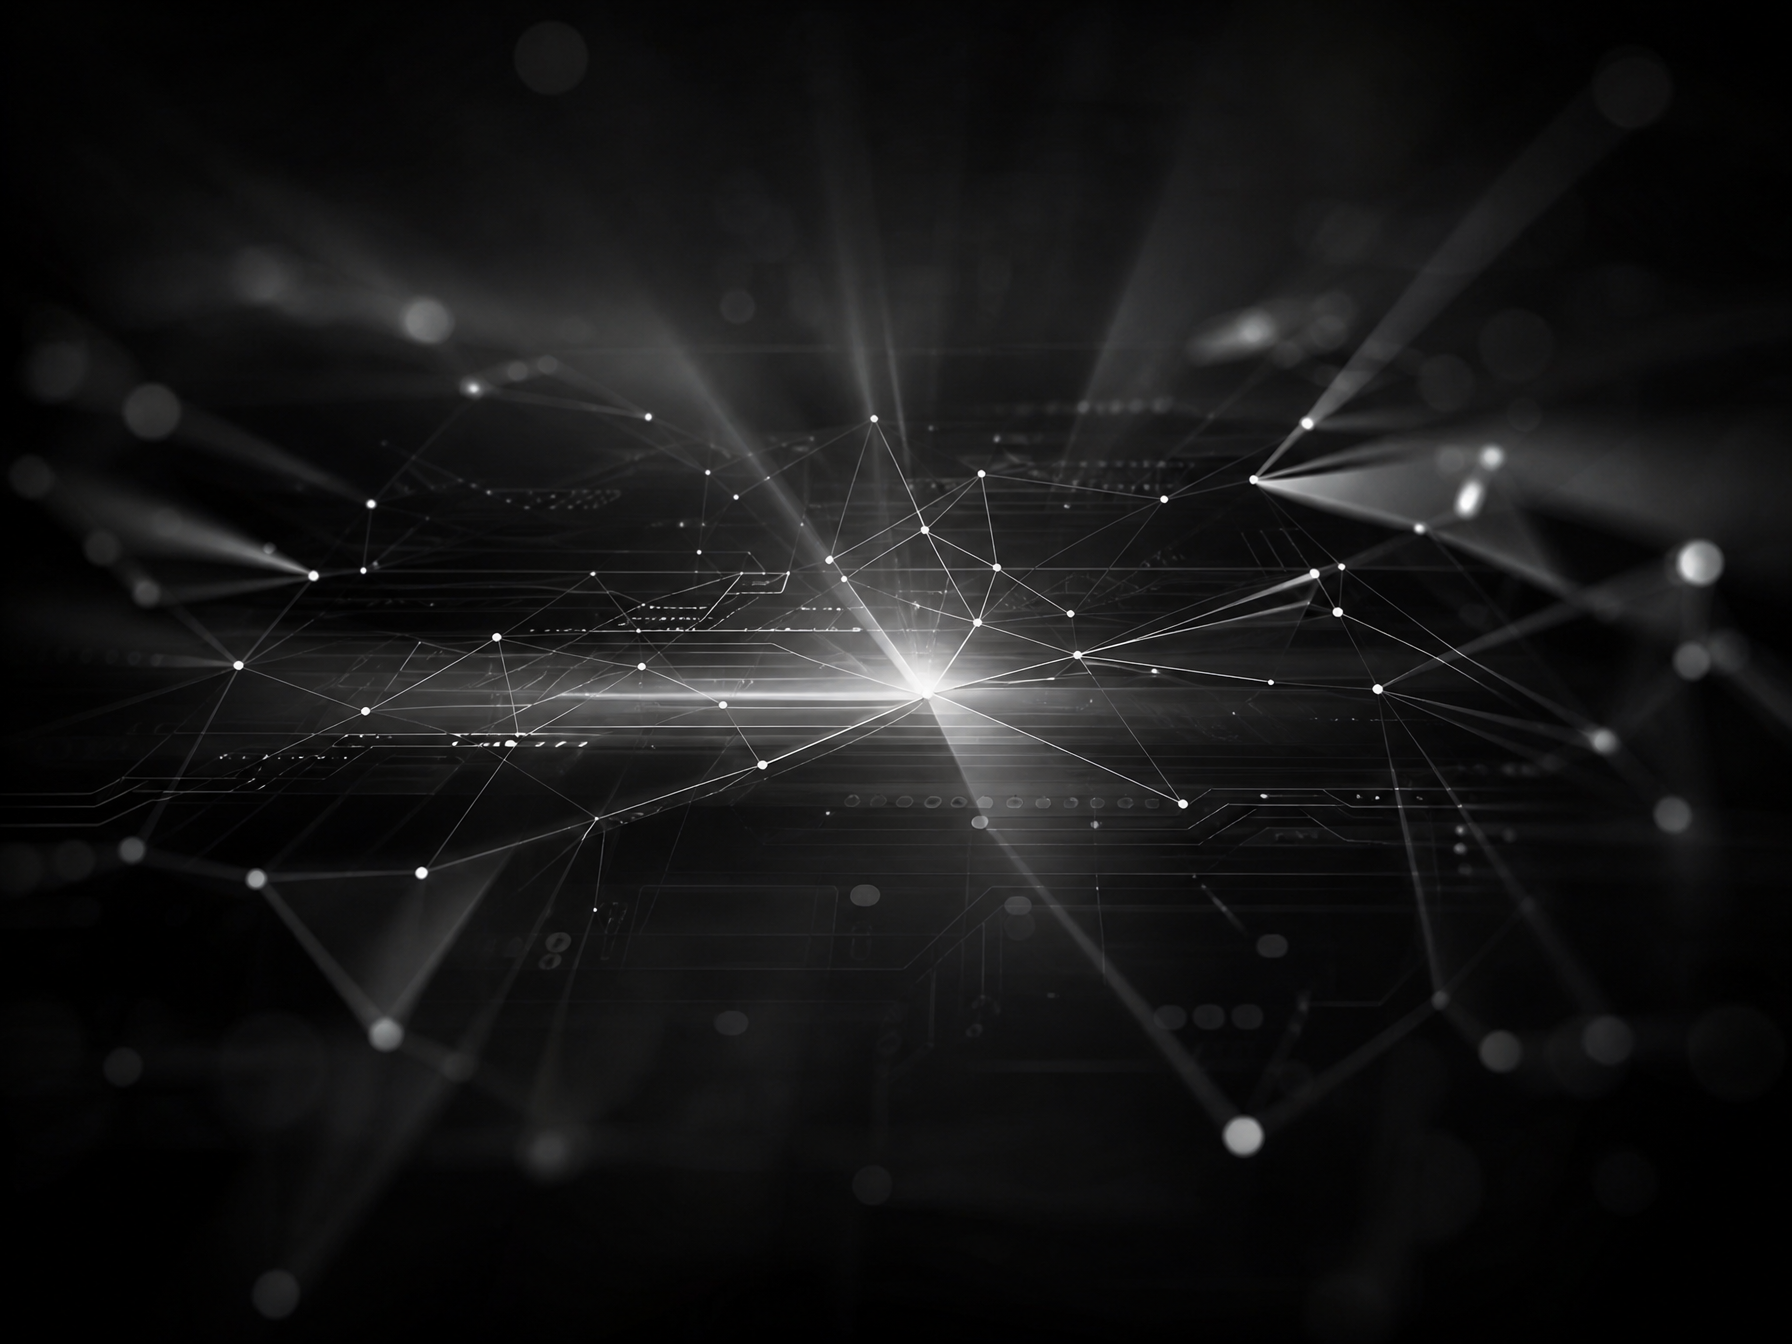
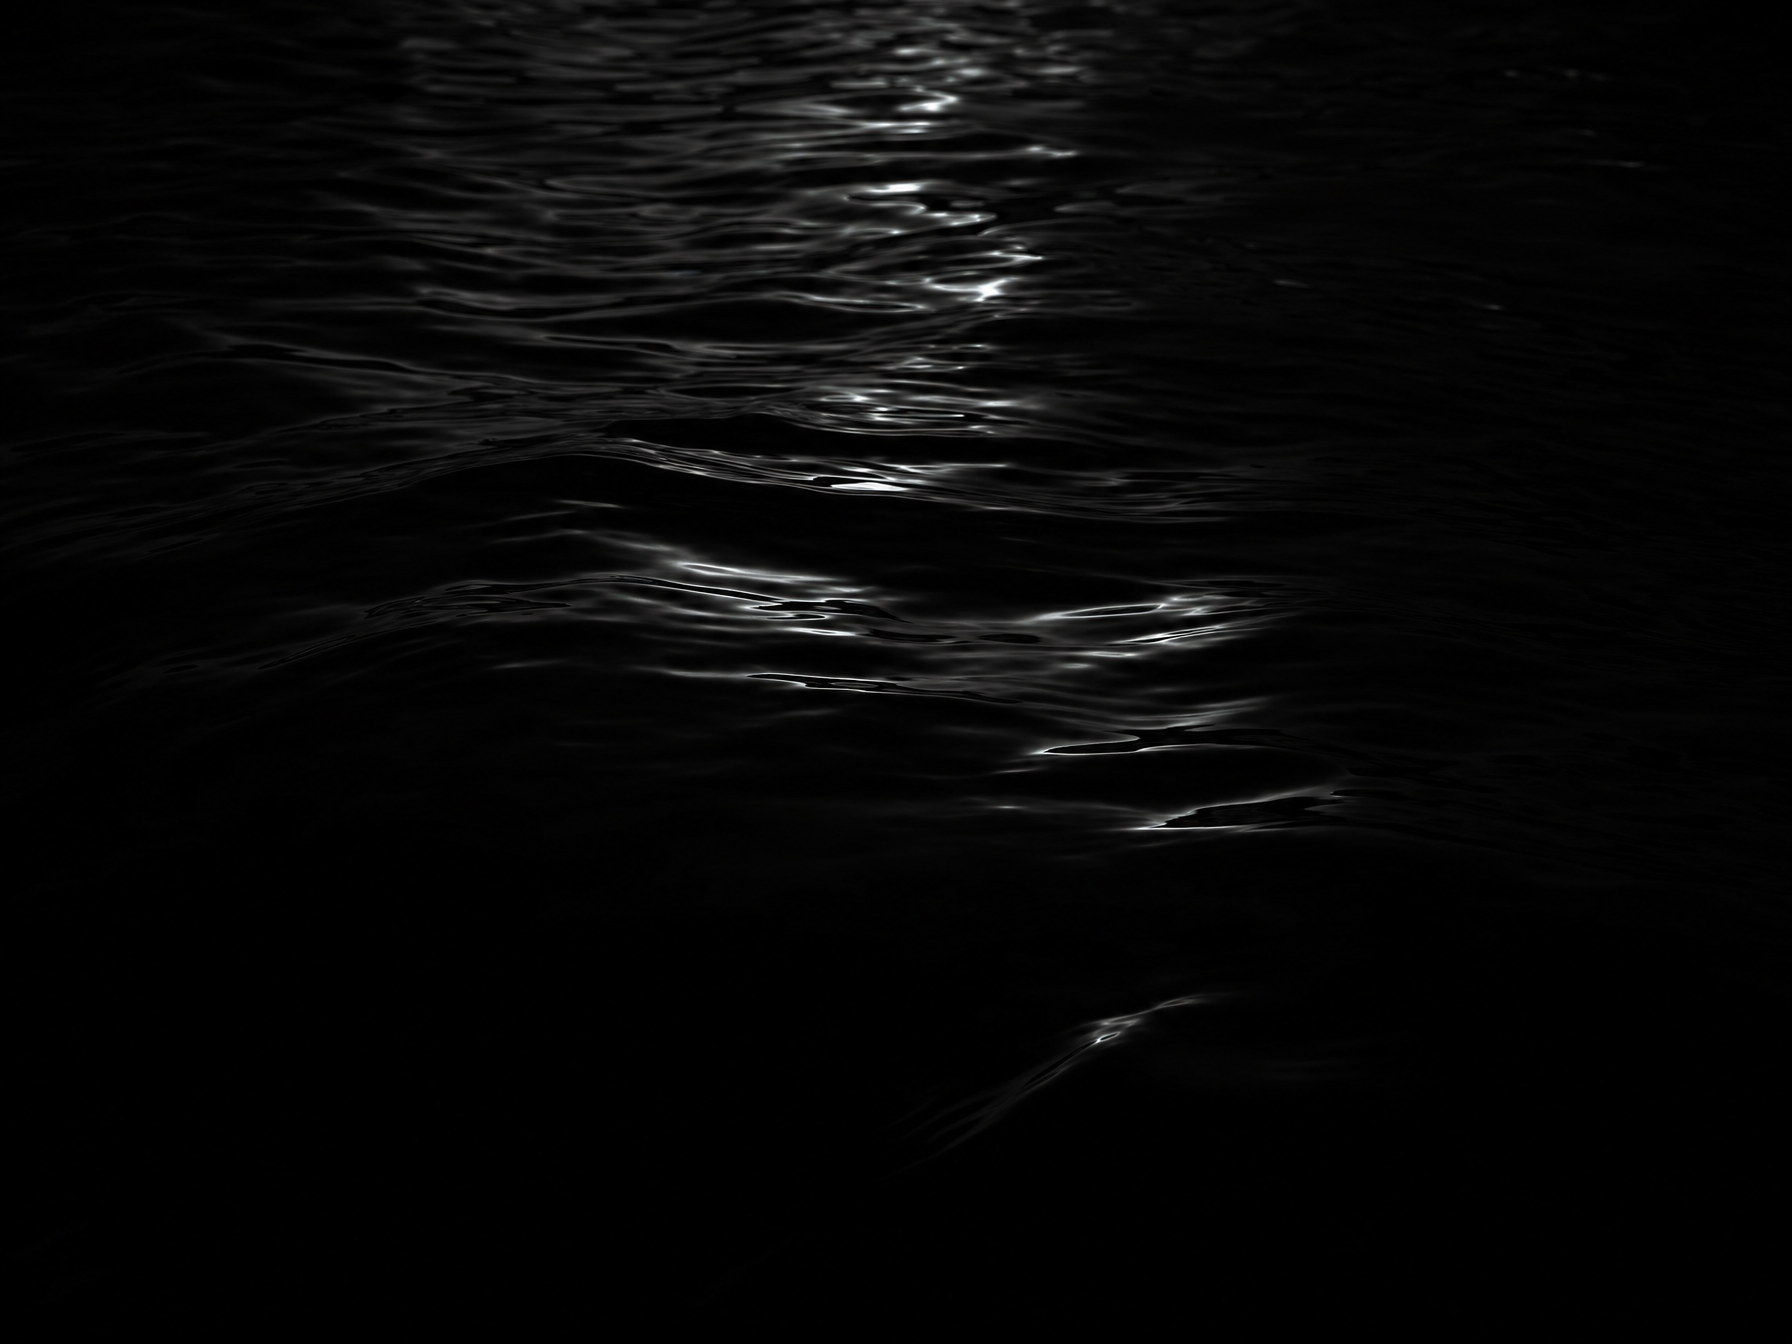
Replace floating screenshot strip with dark liquid water hero background
Removed BackgroundStrip component that showed app screenshots floating
behind the hero on scroll — looked cheap and distracting.

Generated a premium dark liquid water surface background via OpenArt
(monochrome black with subtle white light reflections on ripples).
Added soft ambient glow behind the hero card that reveals on scroll-down
for a clean, premium feel.

diff --git a/components/Home/HeroSection.tsx b/components/Home/HeroSection.tsx
@@ -7,7 +7,6 @@ import { useGSAP } from "@gsap/react";
 import gsap from "gsap";
 import { ScrollTrigger } from "gsap/ScrollTrigger";
 import { useLang, t } from "@/lib/i18n";
-import BackgroundStrip from "./BackgroundStrip";
 
 gsap.registerPlugin(useGSAP, ScrollTrigger);
 
@@ -118,8 +117,12 @@ export default function HeroSection() {
 
   return (
     <section id="home-hero" ref={sectionRef} className="relative h-[300vh]">
-      <div className="sticky top-0 h-screen overflow-hidden">
-        <BackgroundStrip />
+      <div className="sticky top-0 h-screen overflow-hidden bg-black">
+        {/* Ambient glow that shows when hero scales down */}
+        <div className="absolute inset-0 pointer-events-none" aria-hidden="true">
+          <div className="absolute top-1/2 left-1/2 -translate-x-1/2 -translate-y-1/2 w-[600px] h-[600px] rounded-full bg-white/[0.03] blur-[120px] animate-pulse" />
+          <div className="absolute top-1/4 right-1/4 w-[300px] h-[300px] rounded-full bg-white/[0.02] blur-[80px]" style={{ animation: "pulse 4s ease-in-out infinite alternate" }} />
+        </div>
 
         <div ref={heroRef} className="will-change-transform">
           <div className="relative h-screen overflow-hidden bg-black">
@@ -129,28 +132,18 @@ export default function HeroSection() {
               fill
               priority
               unoptimized
-              className="hero-bg-img object-cover object-center opacity-40"
+              className="hero-bg-img object-cover object-center opacity-50"
               sizes="100vw"
             />
 
-            <div className="absolute inset-0 bg-gradient-to-t from-black via-black/50 to-black/70" />
-            <div className="absolute inset-0 bg-gradient-to-r from-black/50 via-transparent to-black/50" />
-
-            {/* Subtle noise texture */}
-            <div
-              className="absolute inset-0 opacity-[0.02] pointer-events-none"
-              style={{
-                backgroundImage: `repeating-linear-gradient(0deg, transparent, transparent 2px, rgba(255,255,255,0.08) 2px, rgba(255,255,255,0.08) 4px)`,
-              }}
-            />
+            <div className="absolute inset-0 bg-gradient-to-t from-black via-black/40 to-black/60" />
+            <div className="absolute inset-0 bg-gradient-to-r from-black/40 via-transparent to-black/40" />
 
             <div className="relative z-10 mx-auto flex h-screen flex-col justify-between px-6 container">
-              {/* Top — Minimal logo */}
               <div className="flex w-full items-center justify-center gap-2 pt-8">
                 <span className="font-bold text-2xl text-white/80 tracking-tight">A<span className="text-white/30">.</span></span>
               </div>
 
-              {/* Center — Big name */}
               <div className="flex flex-col items-center gap-4">
                 <h1 className="hero-name text-center font-bold text-white text-5xl mg-sm:text-6xl sm:text-8xl md:text-[140px] lg:text-[200px] leading-none tracking-tight drop-shadow-[0_0_80px_rgba(255,255,255,0.08)]">
                   AVADHESH
@@ -160,7 +153,6 @@ export default function HeroSection() {
                 </p>
               </div>
 
-              {/* Bottom — CTA + info */}
               <div className="flex flex-col items-center md:flex-row md:items-end justify-between gap-4 sm:gap-6 md:gap-0 pb-6">
                 <Link href="/contact" className="hero-bottom-item btn-green w-full md:w-auto text-center">
                   {t("hero.cta", lang)}
